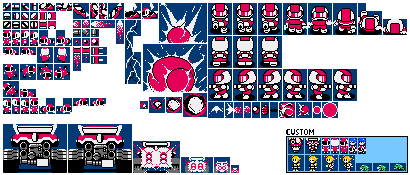
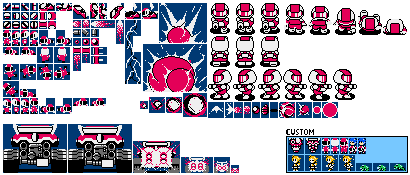
add player movement

diff --git a/direct3dtest/CGame.cpp b/direct3dtest/CGame.cpp
@@ -104,9 +104,11 @@ void CGame::loadResource()
 {
 	//TODO: EVERYTHING INTO RESOURCE FILE
 	TextureManager::getInstance()->add(1, "resource\\Enemies.png", D3DCOLOR_XRGB(255, 0, 255));
+	TextureManager::getInstance()->add(2, "resource\\Player.png", D3DCOLOR_XRGB(0, 57, 115));
 
 	SpriteManager* sprManager = SpriteManager::getInstance();
 	LPDIRECT3DTEXTURE9 enemySpriteSheet = TextureManager::getInstance()->get(1);
+	LPDIRECT3DTEXTURE9 playerSpriteSheet = TextureManager::getInstance()->get(2);
 	
 	sprManager->add(10001, 412, 45, 422, 63, enemySpriteSheet);
 	sprManager->add(10002, 412, 64, 422, 82, enemySpriteSheet);
@@ -118,6 +120,18 @@ void CGame::loadResource()
 	sprManager->add(20004, 145, 193, 165, 211, enemySpriteSheet);
 	sprManager->add(30001, 145, 131, 163, 149, enemySpriteSheet);
 	sprManager->add(30002, 145, 150, 163, 168, enemySpriteSheet);
+	sprManager->add(100001, 4, 209, 36, 233, playerSpriteSheet);
+	sprManager->add(100002, 4, 234, 36, 258, playerSpriteSheet);
+	sprManager->add(100003, 4, 259, 36, 283, playerSpriteSheet);
+	sprManager->add(100011, 37, 209, 69, 233, playerSpriteSheet);
+	sprManager->add(100012, 37, 234, 69, 258, playerSpriteSheet);
+	sprManager->add(100013, 37, 259, 69, 283, playerSpriteSheet);
+	sprManager->add(100021, 70, 209, 102, 233, playerSpriteSheet);
+	sprManager->add(100022, 70, 234, 102, 258, playerSpriteSheet);
+	sprManager->add(100023, 70, 259, 102, 283, playerSpriteSheet);
+	sprManager->add(100031, 70, 284, 102, 308, playerSpriteSheet);
+	sprManager->add(100032, 70, 309, 102, 333, playerSpriteSheet);
+	sprManager->add(100033, 70, 334, 102, 358, playerSpriteSheet);
 
 	AnimationManager* aniManager = AnimationManager::getInstance();
 
@@ -149,6 +163,31 @@ void CGame::loadResource()
 	DomeMoveLeft->add(30001);
 	DomeMoveLeft->add(30002);
 
+	LPANIMATION TopJasonMoveDown = new Animation(100);
+	TopJasonMoveDown->add(100001);
+	TopJasonMoveDown->add(100002);
+	TopJasonMoveDown->add(100003);
+	LPANIMATION TopJasonMoveUp = new Animation(100);
+	TopJasonMoveUp->add(100011);
+	TopJasonMoveUp->add(100012);
+	TopJasonMoveUp->add(100013);
+	LPANIMATION TopJasonMoveLeft = new Animation(100);
+	TopJasonMoveLeft->add(100021);
+	TopJasonMoveLeft->add(100022);
+	TopJasonMoveLeft->add(100023);
+	LPANIMATION TopJasonMoveRight = new Animation(100);
+	TopJasonMoveRight->add(100031);
+	TopJasonMoveRight->add(100032);
+	TopJasonMoveRight->add(100033);
+	LPANIMATION TopJasonIdleDown = new Animation(100);
+	TopJasonIdleDown->add(100002);
+	LPANIMATION TopJasonIdleUp = new Animation(100);
+	TopJasonIdleUp->add(100012);
+	LPANIMATION TopJasonIdleLeft = new Animation(100);
+	TopJasonIdleLeft->add(100022);
+	LPANIMATION TopJasonIdleRight = new Animation(100);
+	TopJasonIdleRight->add(100032);
+
 	aniManager->add(WORM_MOVE_LEFT, WormMoveLeft);
 	aniManager->add(WORM_MOVE_RIGHT, WormMoveRight);
 	aniManager->add(WORM_IDLE_LEFT, WormIdleLeft);
@@ -158,6 +197,16 @@ void CGame::loadResource()
 	aniManager->add(FLOATER_IDLE_LEFT, FloaterIdleLeft);
 	aniManager->add(FLOATER_IDLE_RIGHT, FloaterIdleRight);
 	aniManager->add(DOME_MOVE_LEFT, DomeMoveLeft);
+
+	aniManager->add(TOP_JASON_WALK_DOWN, TopJasonMoveDown);
+	aniManager->add(TOP_JASON_WALK_UP, TopJasonMoveUp);
+	aniManager->add(TOP_JASON_WALK_LEFT, TopJasonMoveLeft);
+	aniManager->add(TOP_JASON_WALK_RIGHT, TopJasonMoveRight);
+	aniManager->add(TOP_JASON_IDLE_DOWN, TopJasonIdleDown);
+	aniManager->add(TOP_JASON_IDLE_UP, TopJasonIdleUp);
+	aniManager->add(TOP_JASON_IDLE_LEFT, TopJasonIdleLeft);
+	aniManager->add(TOP_JASON_IDLE_RIGHT, TopJasonIdleRight);
+
 	DebugOut("[INFO] All resource sprite loaded\n");
 }
 

diff --git a/direct3dtest/gameObject/Player.cpp b/direct3dtest/gameObject/Player.cpp
@@ -2,14 +2,28 @@
 
 Player::Player(float x, float y, int hp) : GameObject(x,y)
 {
+	vx = 0; vy = 0;
+	state = TOP_JASON_IDLE_LEFT;
 }
 
 void Player::render()
 {
+	LPANIMATION ani;
+	ani = AnimationManager::getInstance()->get(state);
+	ani->render(x, y);
 }
 
 void Player::update(DWORD dt)
 {
+	x += vx * dt;
+	y += vy * dt;
+
+	if (state == TOP_JASON_WALK_DOWN) vy = WALKING_SPEED;
+	else if (state == TOP_JASON_WALK_UP) vy = -WALKING_SPEED;
+	else if (state == TOP_JASON_WALK_LEFT) vx = -WALKING_SPEED;
+	else if (state == TOP_JASON_WALK_RIGHT) vx = WALKING_SPEED;
+	else { vx = 0; vy = 0; }
+
 }
 
 Player::~Player()
@@ -18,10 +32,18 @@ Player::~Player()
 
 void Player::changeState(int stateId)
 {
-	switch (state) {
-	case PLAYER_IDLE:
-		if (stateId == PLAYER_WALK)
-			state = stateId;
+	switch (stateId) {
+	//case COMMON_PLAYER_IDLE:
+	//	state = stateId;
+	//	break;
+	case COMMON_PLAYER_IDLE:
+		if (state == TOP_JASON_WALK_LEFT) state = TOP_JASON_IDLE_LEFT;
+		else if (state == TOP_JASON_WALK_RIGHT) state = TOP_JASON_IDLE_RIGHT;
+		else if (state == TOP_JASON_WALK_UP) state = TOP_JASON_IDLE_UP;
+		else if (state == TOP_JASON_WALK_DOWN) state = TOP_JASON_IDLE_DOWN;
+		else break;
 		break;
+	default:
+		state = stateId;
 	}
 }

diff --git a/direct3dtest/scene/DebugScene.cpp b/direct3dtest/scene/DebugScene.cpp
@@ -9,13 +9,27 @@ void DebugScene::initScene()
 {
 	this->addObject(new Worm(30, 30, 1));
 	this->addObject(new Floater(200, 30, 1));
+	p = new Player(30, 180, 1);
+	this->addObject(p);
+	
 }
 
 void DebugScene::handlingInput()
 {
 	if (InputHandler::getInstance()->isKeyDown(DIK_W)) {
-		// Handling key input here
-		//DebugOut("W");
+		p->changeState(TOP_JASON_WALK_UP);
+	}
+	else if (InputHandler::getInstance()->isKeyDown(DIK_A)) {
+		p->changeState(TOP_JASON_WALK_LEFT);
+	}
+	else if (InputHandler::getInstance()->isKeyDown(DIK_S)) {
+		p->changeState(TOP_JASON_WALK_DOWN);
+	}
+	else if (InputHandler::getInstance()->isKeyDown(DIK_D)) {
+		p->changeState(TOP_JASON_WALK_RIGHT);
+	}
+	else {
+		p->changeState(COMMON_PLAYER_IDLE);
 	}
 }
 

diff --git a/direct3dtest/StateDictionary.h b/direct3dtest/StateDictionary.h
@@ -2,10 +2,15 @@
 //State Dictionary (include references to gameObject's state)
 
 //Player State
-#define PLAYER_IDLE 10001
-#define PLAYER_WALK 10002
-#define PLAYER_JUMP 10003
-#define PLAYER_CLIMB 10004
+#define COMMON_PLAYER_IDLE 10000
+#define TOP_JASON_IDLE_LEFT 10001
+#define TOP_JASON_IDLE_RIGHT 10002
+#define TOP_JASON_IDLE_UP 10003
+#define TOP_JASON_IDLE_DOWN 10004
+#define TOP_JASON_WALK_LEFT 10005
+#define TOP_JASON_WALK_RIGHT 10006
+#define TOP_JASON_WALK_UP 10007
+#define TOP_JASON_WALK_DOWN 10008
 
 //Enenmy State
 #define WORM_IDLE_LEFT 100

diff --git a/direct3dtest/scene/DebugScene.h b/direct3dtest/scene/DebugScene.h
@@ -6,6 +6,7 @@
 class DebugScene : public Scene {
 private:
 	SceneStateMachine* sceneState;
+	Player* p;
 public:
 	DebugScene(SceneStateMachine* sceneState);
 	void initScene();
